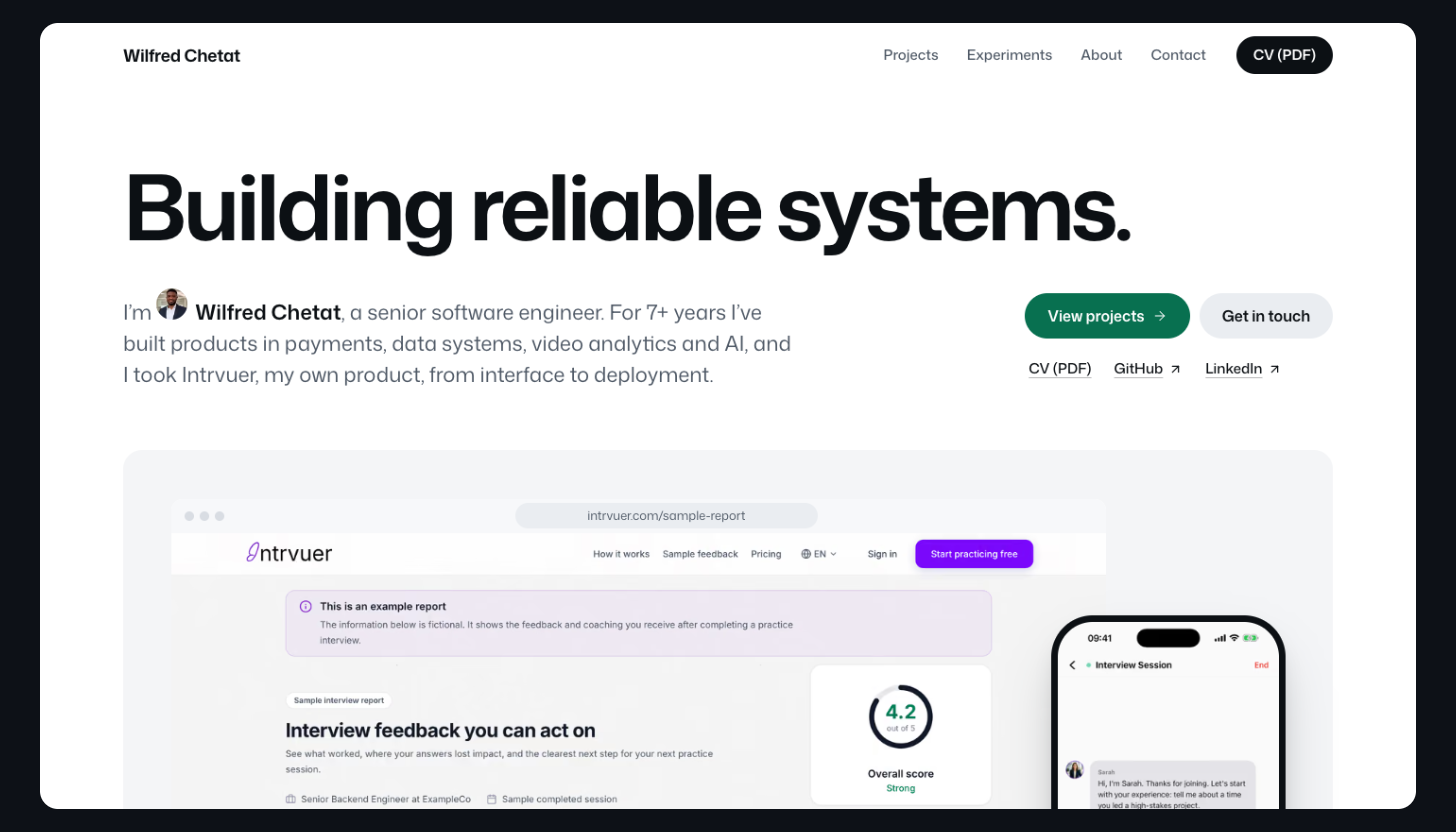
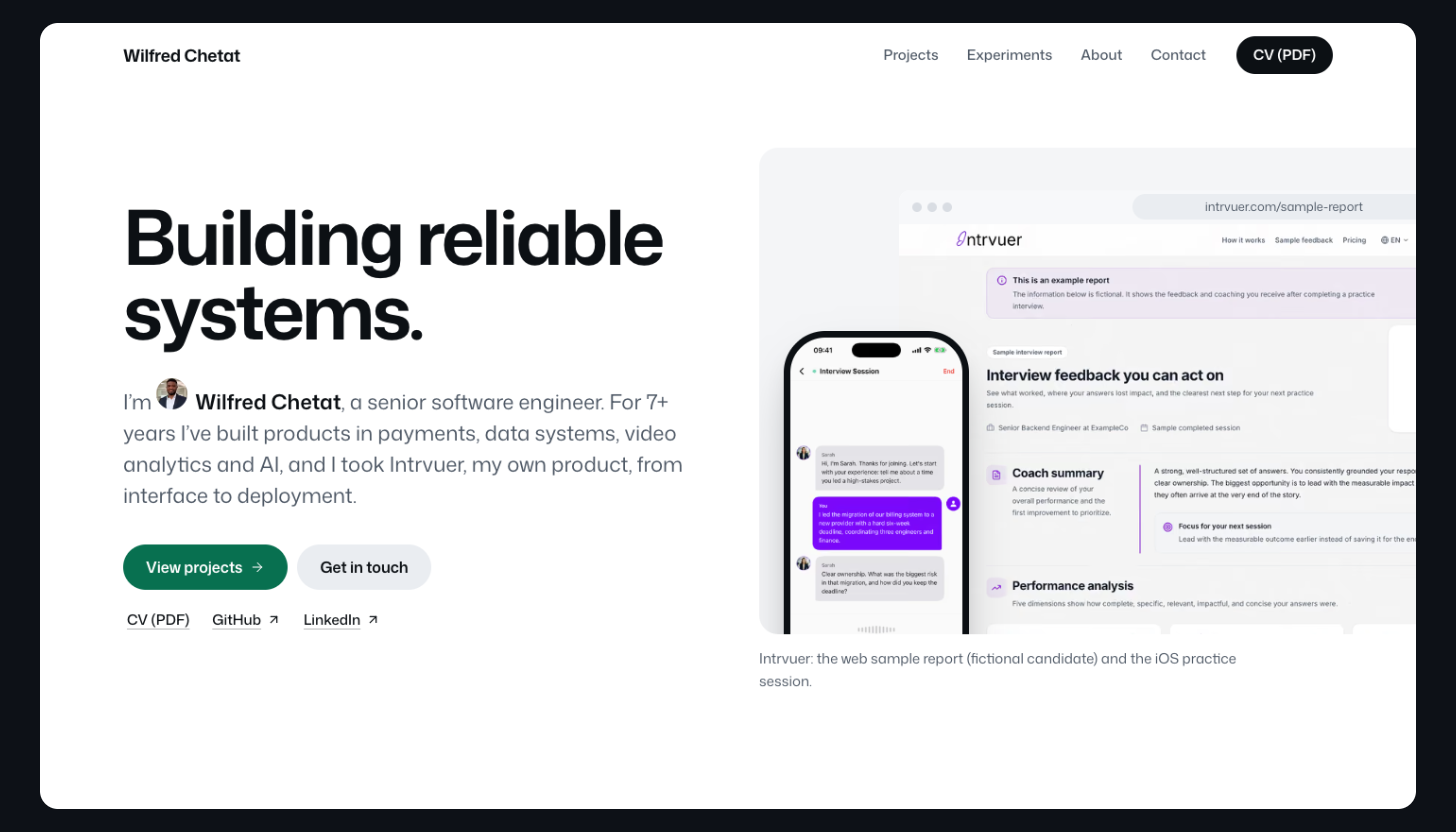
Put the hero in two columns, as Wilfred asked
Text on the left; the Intrvuer stage takes the larger right half and
bleeds off the screen edge, with the phone standing on the browser's
lower-left corner. The headline is sized to hold two lines in its
column. The contract records his answers ('Switch to two columns',
'Keep the pills'); README banners recaptured.

Changed region(s): [[0.0618, 0.1875, 0.989, 1.0], [0.1854, 0.8125, 0.4327, 0.9688], [0.8345, 0.2188, 0.9581, 0.3125]]

diff --git a/.impeccable/surfaces/src-pages-index-astro.md b/.impeccable/surfaces/src-pages-index-astro.md
@@ -17,11 +17,11 @@ Chosen direction (2026-10-31): after three direction rounds Wilfred took the cat
 
 THESIS: A developer portfolio built to the polish of a product launch page. His shipped products are shown the way Linear and Stripe show theirs: large, real and composed. It refuses the cream-and-serif editorial look it replaces, the dark gradient hero and the card grid.
 
-OWN-WORLD: White ground with one cool grey tone step for panels, near-black ink, and one green accent, used only for the primary action, links and the operational "Live" dot. Dark ink bands for code and the close. Mona Sans as the only family at a wide range of weights, with tabular figures. Screenshots sit on tinted panels, never in outlined boxes. Pill controls (Stripe's convention, chosen during the build and seen by Wilfred at checkpoint 1 on 2026-11-01), with press feedback on every one.
+OWN-WORLD: White ground with one cool grey tone step for panels, near-black ink, and one green accent, used only for the primary action, links and the operational "Live" dot. Dark ink bands for code and the close. Mona Sans as the only family at a wide range of weights, with tabular figures. Screenshots sit on tinted panels, never in outlined boxes. Pill controls, Stripe's convention (Wilfred, 2026-11-01: "Keep the pills"), with press feedback on every one.
 
 STORY: The visitor sees the person and the claim, then real product screens at scale. The projects show what he built at each layer, the experiments show depth, and the about section and the timeline earn trust. The close makes emailing him one tap.
 
-FIRST VIEWPORT: (amended 2026-11-01 to the layout Wilfred reviewed at checkpoint 1, where he changed only wording) "Building reliable systems." at about 96px across the full width on one line (two on phones). Below it, the lede with a small inline portrait beside his name on the left, and on the right the primary "View projects" pill, the secondary "Get in touch" and the CV, GitHub and LinkedIn links. Below both, full width: a composed product stage, the Intrvuer sample report in a browser frame on a tinted panel with the iOS practice screen overlapping its right side, bleeding off the fold. The stage rises in once on load.
+FIRST VIEWPORT: Two columns (Wilfred, 2026-11-01, asked for this over the stacked version: "Switch to two columns"). Left: "Building reliable systems." over two lines at about 80px, the most the text column holds; the lede with a small inline portrait beside his name; a primary "View projects" pill and a secondary "Get in touch"; the CV, GitHub and LinkedIn links. Right, the larger half: a composed product stage that bleeds off the right edge of the screen, the Intrvuer sample report in a browser frame on a tinted panel with the iOS practice screen standing on its lower edge. The stage rises in once on load. Below 64rem the stage moves under the text, inside the margins.
 
 FORM: Category standard (canon), executed straight at Linear and Stripe polish; chosen in round 3 over Contact Sheet and Monograph. seed:95643153bc9c98d8. Signature interaction: the Intrvuer showcase switches between its three real steps (context setup, spoken practice, feedback report) with a clip-path tab transition, and each step names what he built. Motion grammar: one load sequence in the hero, staggered section entrances (16px rise with opacity, about 70ms apart), press feedback at scale 0.97, all on a strong ease-out, with movement removed under reduced motion.
 
